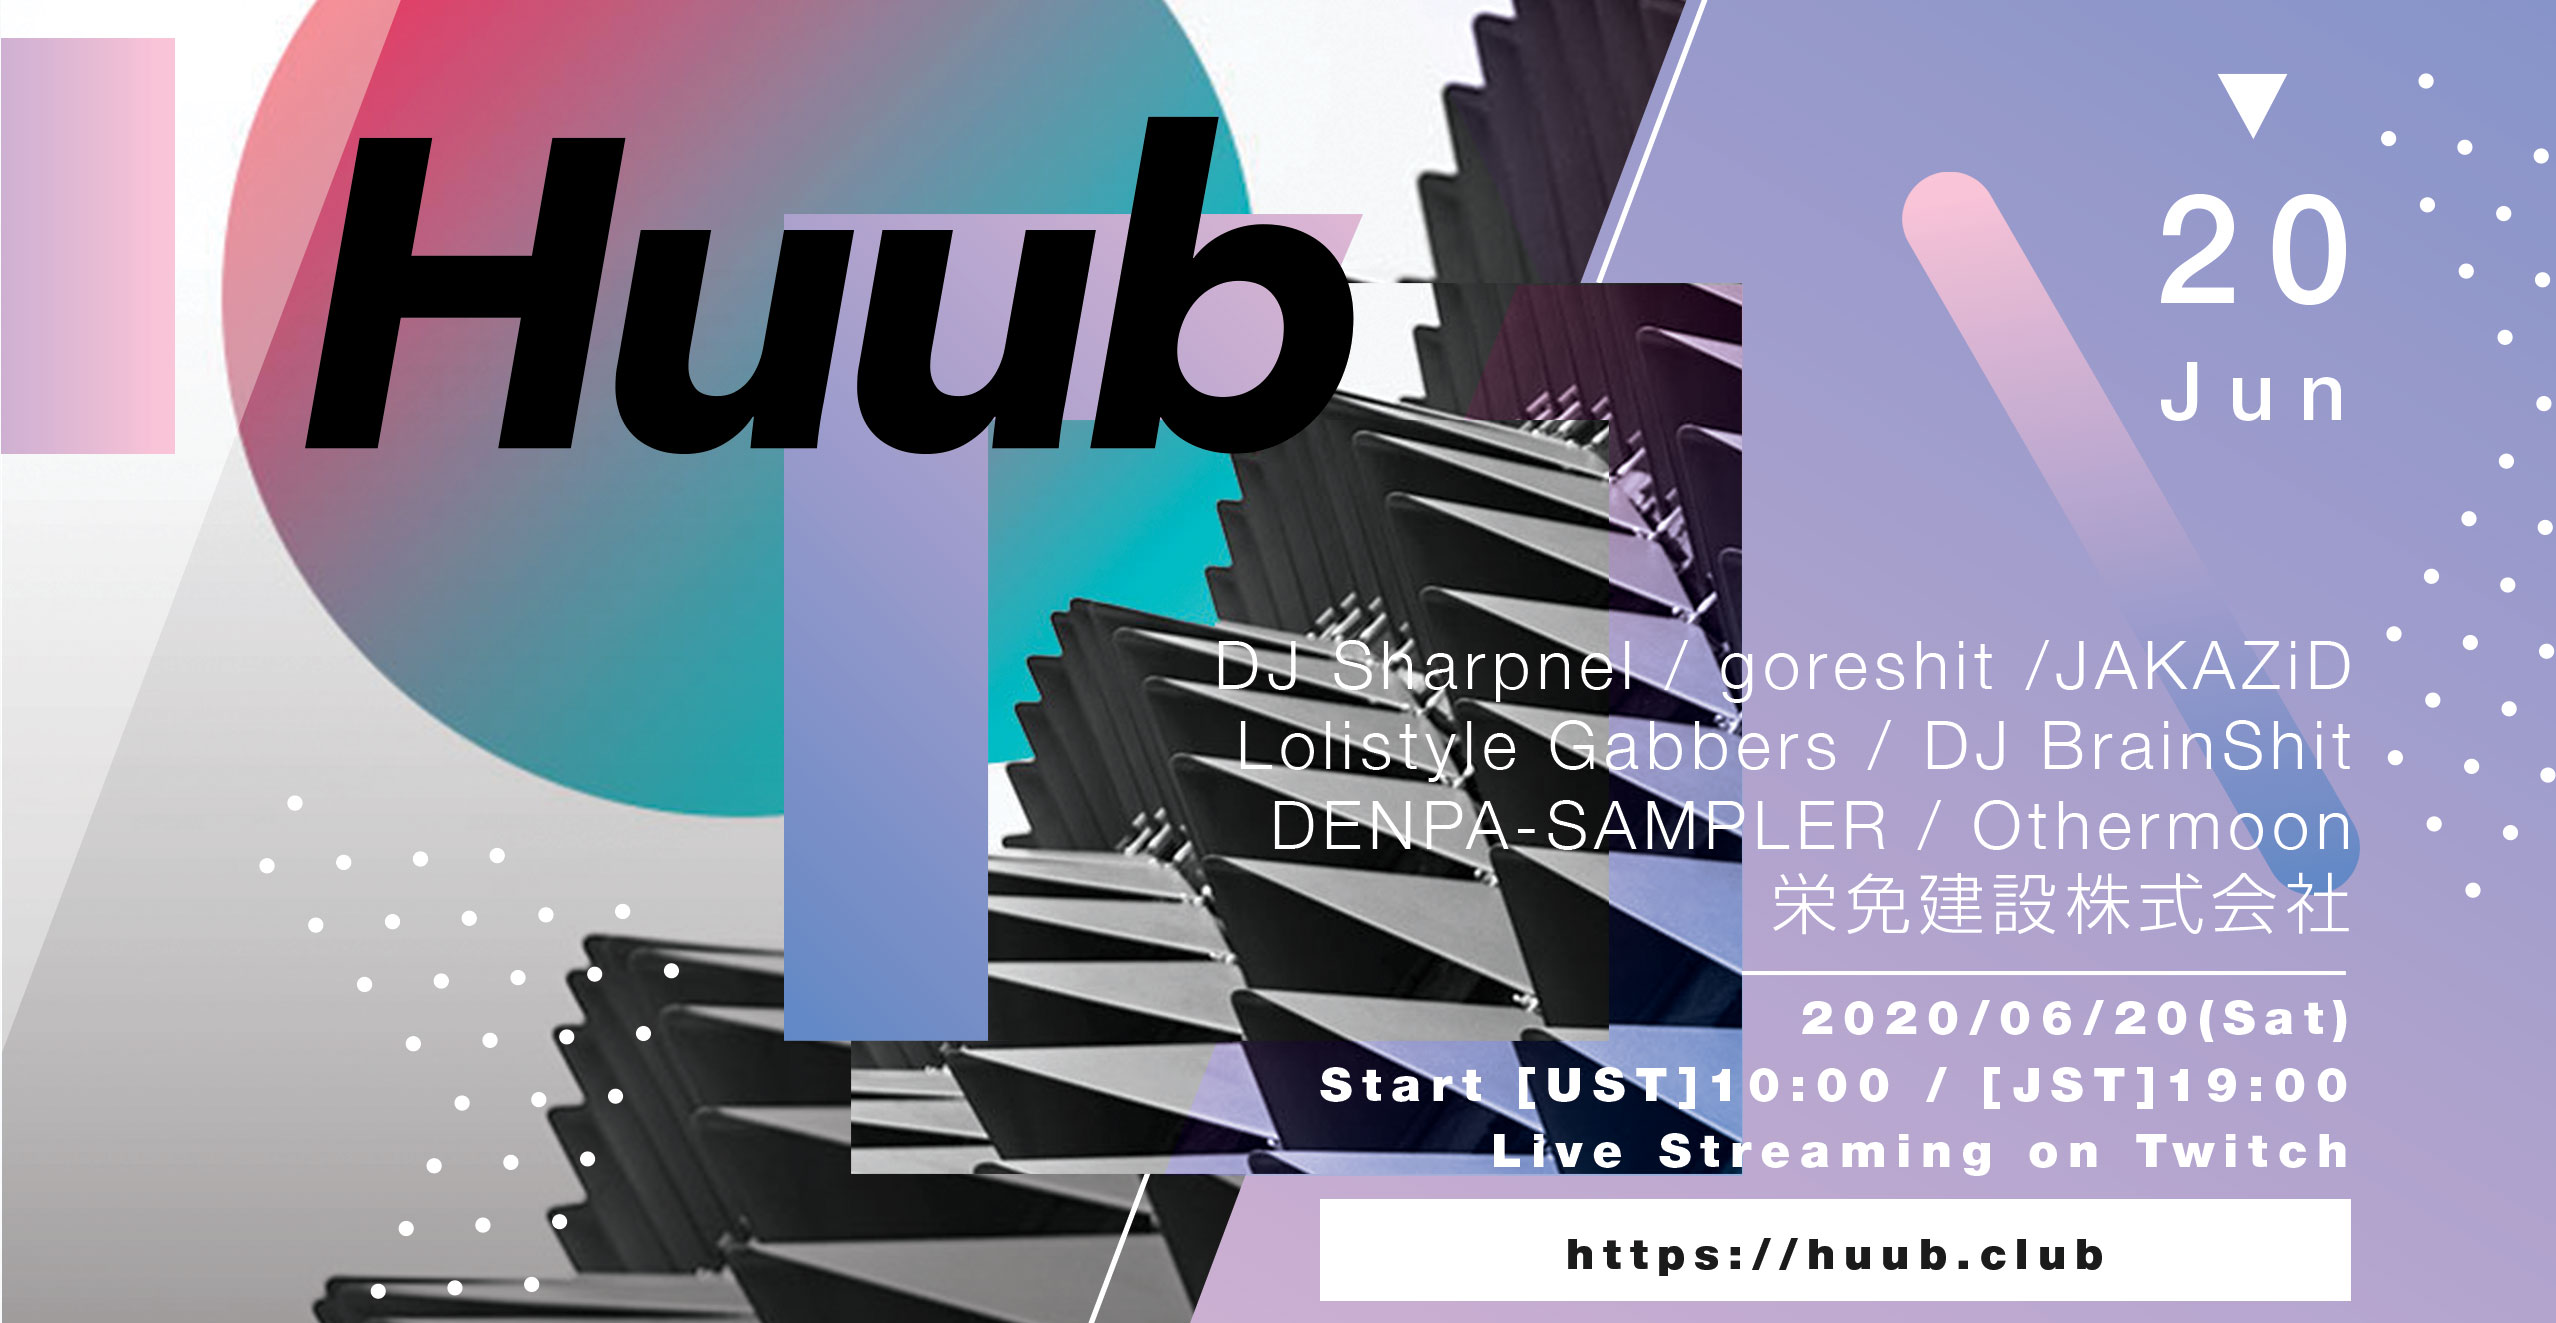
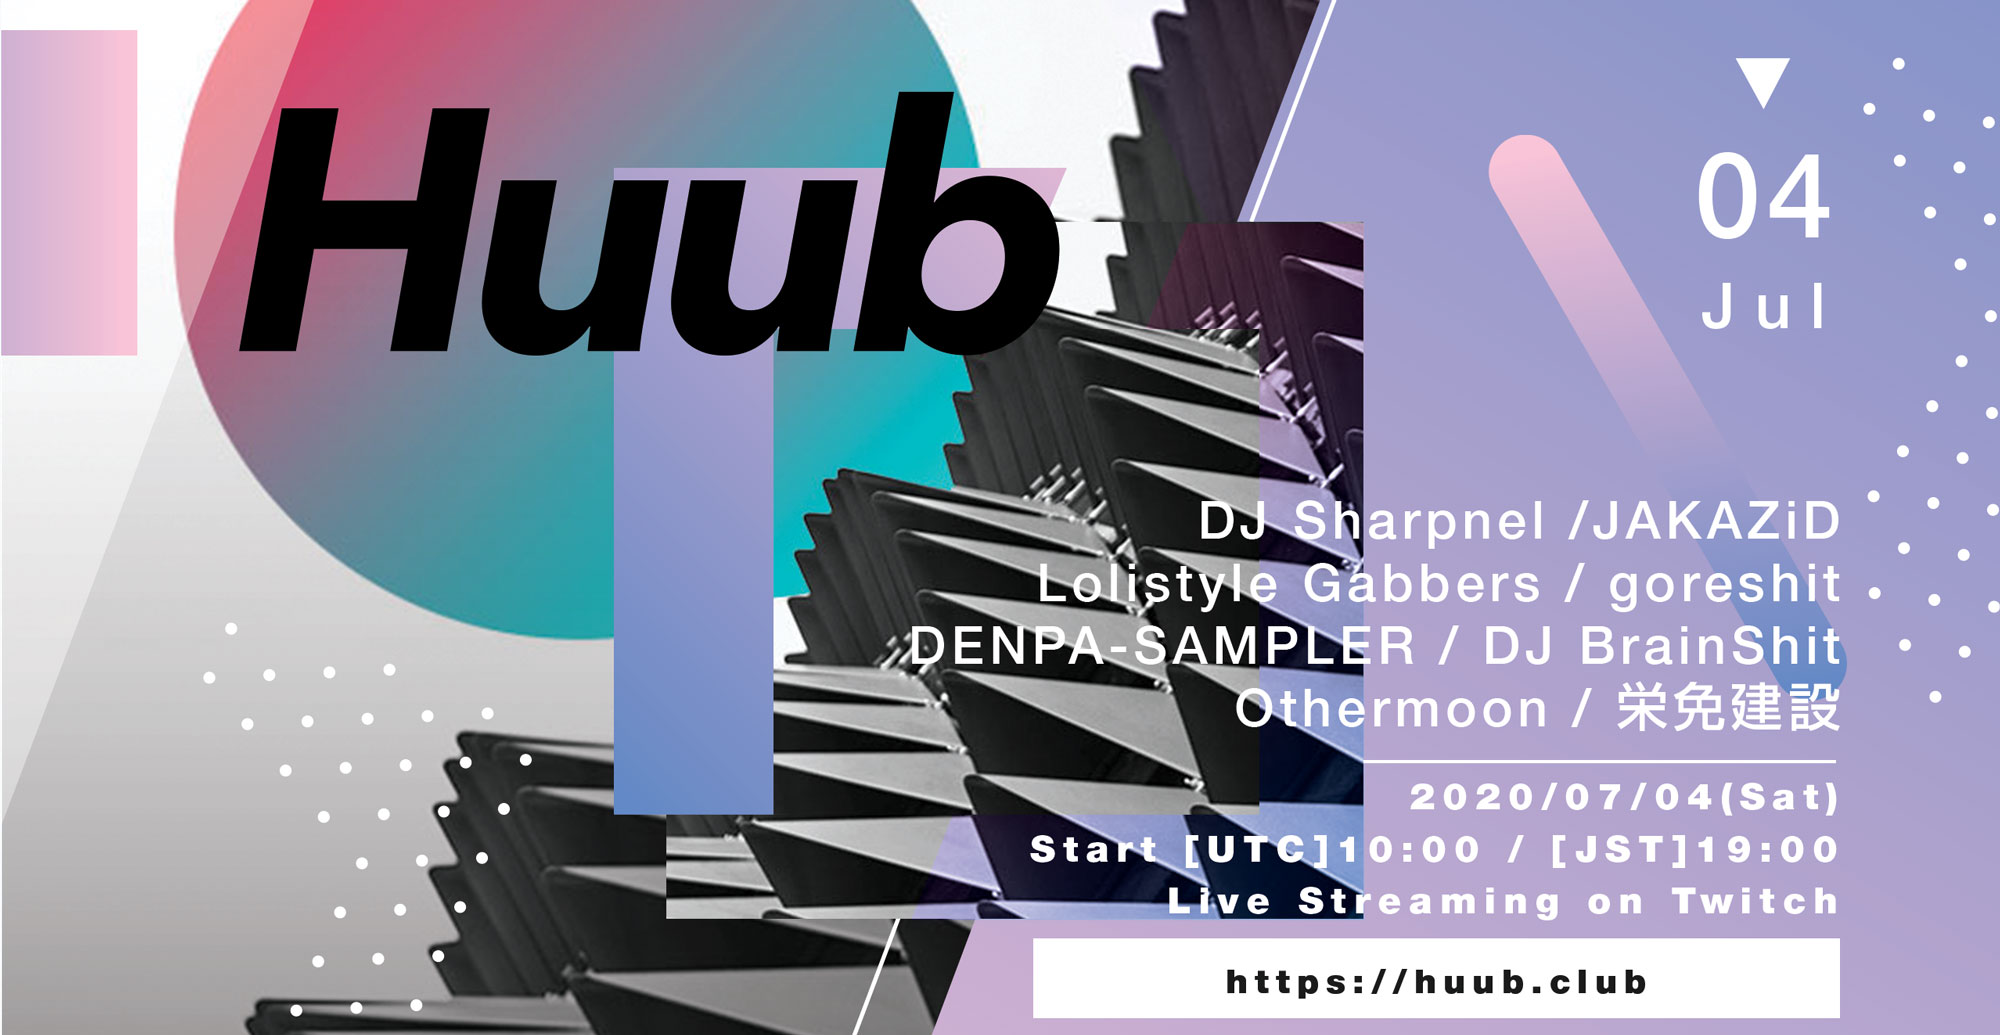
Updates

diff --git a/index.html b/index.html
@@ -315,9 +315,9 @@
                     <div class="content-block">
                         <span class="subtitle">next party</span>
                         <h2>Lineup</h2>
-                        <p class="section-text">次回のパーティは<span>2020年6月20日 19:00 - 25:00(日本時間)</span>を予定しています。<br>
+                        <p class="section-text">次回のパーティは<span>2020年7月4日 19:00 - 25:00(日本時間)</span>を予定しています。<br>
                             開催場所は<a href="https://www.twitch.tv/huubclub" target="_blank">Twitch</a>です。</p>
-                        <p class="section-text">The next party will be on <span>June 20, 2020, 10:00 to 16:00 UTC</span>.<br>
+                        <p class="section-text">The next party will be on <span>July 04, 2020, 10:00 to 16:00 UTC</span>.<br>
                             The venue is <a href="https://www.twitch.tv/huubclub" target="_blank">Twitch</a>.</p>
                     </div>
                     <!-- Section Content Block Title End -->
@@ -488,10 +488,10 @@
                                          itemprop="thumbnail" alt="Image description"/>
                                 </a>
                                 <figcaption class="works-description" itemprop="caption description">
-                                    <h3>栄免建設株式会社
+                                    <h3>栄免建設
                                         <small>from Japan</small>
                                     </h3>
-                                    <p>栄免建設株式会社は1969年（昭和44年）九州での創業以降、「Amenbreakを通した社会貢献」の経営理念の元、確かな技術力と誠実な仕事によりお客様に高品質のアーメン施工を行ってきました。<br>
+                                    <p>栄免建設は1969年（昭和44年）九州での創業以降、「Amenbreakを通した社会貢献」の経営理念の元、確かな技術力と誠実な仕事によりお客様に高品質のアーメン施工を行ってきました。<br>
                                         21世紀に入りインターネットの発展からアーメン建築に求められるニーズは高度化、多様化しています。<br>
                                         私たちはそれらに的確に応えられるよう常に挑戦を心掛け、新たなアーメン工法の開発と共に地球環境への配慮や安全・安心の提供しサステイナブルな社会作りを目指し、
                                         より豊かな未来を築く活動を推進してまいります。<br>
@@ -503,17 +503,25 @@
 
                             <!-- Works Gallery Single Item Start -->
                             <figure class="col-12 col-sm-3" itemprop="associatedMedia" itemscope>
-                                <a href="https://via.placeholder.com/900x1200"
-                                   data-image="https://via.placeholder.com/900x1200" class="works-link"
-                                   itemprop="contentUrl" data-size="900x1200">
-                                    <img src="https://via.placeholder.com/900x1200" class="works-image"
+                                <a href="img/artist/DENPA-SAMPLER.png"
+                                   data-image="img/artist/DENPA-SAMPLER.png" class="works-link"
+                                   itemprop="contentUrl" data-size="1000x1000">
+                                    <img src="img/artist/DENPA-SAMPLER.png" class="works-image"
                                          itemprop="thumbnail" alt="Image description"/>
                                 </a>
                                 <figcaption class="works-description" itemprop="caption description">
                                     <h3>DENPA-SAMPLER
                                         <small>from Korea</small>
                                     </h3>
-                                    <p>artist description</p>
+                                    <p>低音とループとサンプリングとカットアップのアンサンブルが好きなマッドマインド·マシン。<br>
+                                        本来、SANY-ON名義で活動しているが、「萌え・アニメ系」サンプルが聞こえるならDENPA-SAMPLERモード。<br>
+                                        2007年、Be-Music Script(BMS)を作り始め、2011年から韓国初のハードダンス・ハードコアテクノレーベルHYPERMESS Recordingsの創立メンバーとして韓国ハードコアシーンの開拓のため頑張った。<br>
+                                        個人サークル「MAD MIND MACHINE」で東方アレンジアルバムを多数プロデュースし、EZ2AC・PIUなどのリズムゲームや現代芸術界にも楽曲を提供した。<br>
+                                        DJとしては韓国、ソウルを中心に活動していたが、最近は日本やインターネットで活動範囲を広げている。<br>
+                                        <a href="http://madmindmachine.com" target="_blank">http://madmindmachine.com</a><br>
+                                        <a href="https://twitter.com/sany_on_" target="_blank"> https://twitter.com/sany_on_</a><br>
+                                        <a href="https://soundcloud.com/sany-on" target="_blank">https://soundcloud.com/sany-on</a>
+                                    </p>
                                 </figcaption>
                             </figure>
                             <!-- Works Gallery Single Item End -->
@@ -561,8 +569,8 @@
                     <div class="content-block">
                         <span class="subtitle">Live streaming on</span>
                         <h2>Twitch</h2>
-                        <p class="section-text">次のパーティは<span>2020年6月20日 19:00 - 25:00（日本時間）</span>を予定しています。開始までお待ちください。</p>
-                        <p class="section-text">The next party will be on <span>June 20, 2020, 10:00 to 16:00 UTC</span>. Please wait for the start.</p>
+                        <p class="section-text">次のパーティは<span>2020年7月4日 19:00 - 25:00（日本時間）</span>を予定しています。開始までお待ちください。</p>
+                        <p class="section-text">The next party will be on <span>July 4, 2020, 10:00 to 16:00 UTC</span>. Please wait for the start.</p>
                         <!-- Countdown Start-->
                         <div class="countdown countdown-full">
                             <span class="help-text">Until the next party starts</span>

diff --git a/js/unio-custom.js b/js/unio-custom.js
@@ -171,8 +171,8 @@ $(function() {
   // --------------------------------------------- //
   // KBW-Countdown Start
   // --------------------------------------------- //
-  $('#countdown').countdown({until: $.countdown.UTCDate(+540, 2020, 6-1, 20, 19, 0, 0, 0), format: 'D'});
-  $('#countdown-large').countdown({until: $.countdown.UTCDate(+540, 2020, 6-1, 20, 19, 0, 0, 0), format: 'DHMS'});
+  $('#countdown').countdown({until: $.countdown.UTCDate(+540, 2020, 7-1, 4, 19, 0, 0, 0), format: 'D'});
+  $('#countdown-large').countdown({until: $.countdown.UTCDate(+540, 2020, 7-1, 4, 19, 0, 0, 0), format: 'DHMS'});
   // --------------------------------------------- //
   // KBW-Countdown End
   // --------------------------------------------- //

diff --git a/source-files/unio-js-files/unio-custom.js b/source-files/unio-js-files/unio-custom.js
@@ -171,8 +171,8 @@ $(function() {
   // --------------------------------------------- //
   // KBW-Countdown Start
   // --------------------------------------------- //
-  $('#countdown').countdown({until: $.countdown.UTCDate(+540, 2020, 6-1, 20, 19, 0, 0, 0), format: 'D'});
-  $('#countdown-large').countdown({until: $.countdown.UTCDate(+540, 2020, 6-1, 20, 19, 0, 0, 0), format: 'DHMS'});
+  $('#countdown').countdown({until: $.countdown.UTCDate(+540, 2020, 7-1, 4, 19, 0, 0, 0), format: 'D'});
+  $('#countdown-large').countdown({until: $.countdown.UTCDate(+540, 2020, 7-1, 4, 19, 0, 0, 0), format: 'DHMS'});
   // --------------------------------------------- //
   // KBW-Countdown End
   // --------------------------------------------- //
